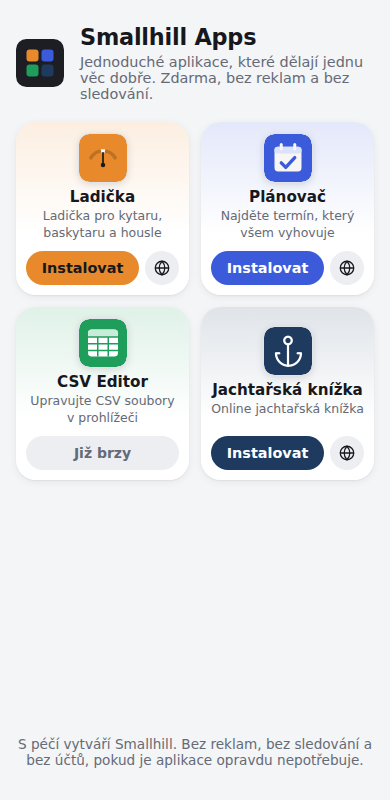
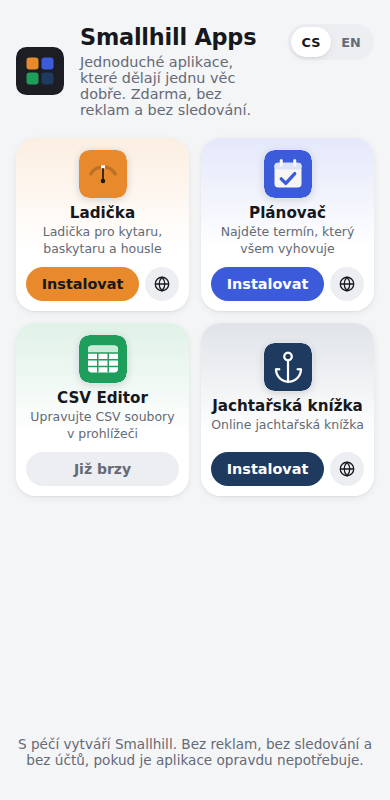
🌐 feat(portal): pick language from system settings and add CS/EN switch
Claude-Session: https://claude.ai/code/session_018H1CHLad89qXWLEkoPwUt1

Changed region(s): [[0.0308, 0.0312, 0.9231, 0.5938], [0.5231, 0.1562, 0.9538, 0.625]]

diff --git a/apps/portal/src/app/i18n.ts b/apps/portal/src/app/i18n.ts
@@ -1,3 +1,5 @@
+import { computed, signal } from "@angular/core";
+
 export type Lang = "en" | "cs";
 export type Text = Record<Lang, string>;
 
@@ -17,6 +19,7 @@ const en = {
 	features: ["Free", "No ads", "No tracking"],
 	installHelp:
 		"Your browser can't install apps from this page. Open the app and install it from the browser menu: Install app in Chrome or Edge, Share → Add to Home Screen in Safari.",
+	language: "Language",
 	footer: "Made with care by Smallhill. No ads, no tracking, no accounts unless an app truly needs one.",
 };
 
@@ -36,13 +39,42 @@ const cs: typeof en = {
 	features: ["Zdarma", "Bez reklam", "Bez sledování"],
 	installHelp:
 		"Váš prohlížeč neumí instalovat aplikace z této stránky. Otevřete aplikaci a nainstalujte ji z nabídky prohlížeče: Instalovat aplikaci v Chrome nebo Edge, Sdílet → Přidat na plochu v Safari.",
+	language: "Jazyk",
 	footer: "S péčí vytváří Smallhill. Bez reklam, bez sledování a bez účtů, pokud je aplikace opravdu nepotřebuje.",
 };
 
-export const LANG: Lang =
-	typeof navigator !== "undefined" && navigator.language?.toLowerCase().startsWith("cs") ? "cs" : "en";
-export const T = LANG === "cs" ? cs : en;
+const STORAGE_KEY = "portal.lang";
+const LANGS: Lang[] = ["en", "cs"];
+const TEXTS: Record<Lang, typeof en> = { en, cs };
+
+export function detectLang(languages: readonly string[]): Lang {
+	for (const language of languages) {
+		const code = language.toLowerCase().split("-")[0];
+		if (code === "cs" || code === "sk") return "cs";
+		if (code === "en") return "en";
+	}
+	return "en";
+}
+
+function initialLang(): Lang {
+	try {
+		const stored = localStorage.getItem(STORAGE_KEY);
+		if (LANGS.includes(stored as Lang)) return stored as Lang;
+	} catch {}
+	if (typeof navigator === "undefined") return "en";
+	return detectLang(navigator.languages?.length ? navigator.languages : [navigator.language ?? ""]);
+}
+
+export const lang = signal<Lang>(initialLang());
+export const T = computed(() => TEXTS[lang()]);
+
+export function setLang(value: Lang): void {
+	lang.set(value);
+	try {
+		localStorage.setItem(STORAGE_KEY, value);
+	} catch {}
+}
 
 export function tr(text: Text): string {
-	return text[LANG];
+	return text[lang()];
 }

diff --git a/apps/portal/src/app/app-detail/app-detail.html b/apps/portal/src/app/app-detail/app-detail.html
@@ -5,23 +5,23 @@
 		<p class="tagline">{{ tr(app().tagline) }}</p>
 		<app-actions [app]="app()" [large]="true" />
 	</div>
-	<button type="button" class="close" (click)="closed.emit()" [attr.aria-label]="t.close" [title]="t.close">
+	<button type="button" class="close" (click)="closed.emit()" [attr.aria-label]="t().close" [title]="t().close">
 		<svg viewBox="0 0 24 24" aria-hidden="true"><path d="M6 6l12 12M18 6L6 18" /></svg>
 	</button>
 </header>
 
 @if (showHelp()) {
-	<p class="help" role="status">{{ t.installHelp }}</p>
+	<p class="help" role="status">{{ t().installHelp }}</p>
 }
 
 <ul class="features">
-	@for (feature of t.features; track feature) {
+	@for (feature of t().features; track feature) {
 		<li>{{ feature }}</li>
 	}
 </ul>
 
 <section>
-	<h3>{{ t.screenshots }}</h3>
+	<h3>{{ t().screenshots }}</h3>
 	@if (app().screenshots.length) {
 		<div class="screenshots">
 			@for (shot of app().screenshots; track shot; let i = $index) {
@@ -29,11 +29,11 @@
 			}
 		</div>
 	} @else {
-		<p class="muted">{{ t.noScreenshots }}</p>
+		<p class="muted">{{ t().noScreenshots }}</p>
 	}
 </section>
 
 <section>
-	<h3>{{ t.about }}</h3>
+	<h3>{{ t().about }}</h3>
 	<p class="description">{{ tr(app().description) }}</p>
 </section>

diff --git a/apps/portal/src/app/app.ts b/apps/portal/src/app/app.ts
@@ -2,7 +2,7 @@ import { ChangeDetectionStrategy, Component, computed, effect, ElementRef, signa
 import { AppDetail } from "./app-detail/app-detail";
 import { AppTile } from "./app-tile/app-tile";
 import { APPS } from "./apps";
-import { T } from "./i18n";
+import { Lang, lang, setLang, T } from "./i18n";
 
 @Component({
 	selector: "app-root",
@@ -14,6 +14,9 @@ import { T } from "./i18n";
 })
 export class App {
 	protected readonly t = T;
+	protected readonly lang = lang;
+	protected readonly langs: Lang[] = ["cs", "en"];
+	protected readonly setLang = setLang;
 	protected readonly apps = APPS.filter((app) => app.listed);
 
 	private readonly dialog = viewChild.required<ElementRef<HTMLDialogElement>>("dialog");
@@ -22,6 +25,9 @@ export class App {
 
 	constructor() {
 		this.syncFromHash();
+		effect(() => {
+			document.documentElement.lang = lang();
+		});
 		effect(() => {
 			const dialog = this.dialog().nativeElement;
 			if (this.selected() && !dialog.open) dialog.showModal();

diff --git a/apps/portal/src/app/app-actions/app-actions.html b/apps/portal/src/app/app-actions/app-actions.html
@@ -7,22 +7,22 @@
 	>
 		@switch (state()) {
 			@case ("installing") {
-				{{ t.installing }}
+				{{ t().installing }}
 			}
 			@case ("installed") {
-				{{ t.installed }}
+				{{ t().installed }}
 			}
 			@default {
-				{{ t.install }}
+				{{ t().install }}
 			}
 		}
 	</button>
-	<a class="web" [href]="app().url" target="_blank" rel="noopener" [attr.aria-label]="t.open" [title]="t.open">
+	<a class="web" [href]="app().url" target="_blank" rel="noopener" [attr.aria-label]="t().open" [title]="t().open">
 		<svg viewBox="0 0 24 24" aria-hidden="true">
 			<circle cx="12" cy="12" r="9" />
 			<path d="M3 12h18M12 3c2.5 2.7 3.8 5.7 3.8 9s-1.3 6.3-3.8 9c-2.5-2.7-3.8-5.7-3.8-9S9.5 5.7 12 3z" />
 		</svg>
 	</a>
 } @else {
-	<span class="soon">{{ t.soon }}</span>
+	<span class="soon">{{ t().soon }}</span>
 }

diff --git a/apps/portal/src/app/app.html b/apps/portal/src/app/app.html
@@ -1,8 +1,20 @@
 <header class="hero">
 	<img src="favicon.svg" alt="" width="48" height="48" />
 	<div>
-		<h1>{{ t.title }}</h1>
-		<p>{{ t.subtitle }}</p>
+		<h1>{{ t().title }}</h1>
+		<p>{{ t().subtitle }}</p>
+	</div>
+	<div class="lang" role="group" [attr.aria-label]="t().language">
+		@for (option of langs; track option) {
+			<button
+				type="button"
+				[attr.aria-pressed]="lang() === option"
+				[attr.lang]="option"
+				(click)="setLang(option)"
+			>
+				{{ option.toUpperCase() }}
+			</button>
+		}
 	</div>
 </header>
 
@@ -14,7 +26,7 @@
 	</ul>
 </main>
 
-<footer>{{ t.footer }}</footer>
+<footer>{{ t().footer }}</footer>
 
 <dialog #dialog (close)="selected() && close()" (click)="onBackdropClick($event)">
 	@if (selected(); as app) {

diff --git a/apps/portal/src/app/app.scss b/apps/portal/src/app/app.scss
@@ -19,6 +19,10 @@
 		height: 48px;
 	}
 
+	> div:first-of-type {
+		flex: 1;
+	}
+
 	h1 {
 		margin: 0;
 		font-size: 1.75rem;
@@ -28,6 +32,33 @@
 	p {
 		margin: 4px 0 0;
 		color: var(--muted);
+	}
+}
+
+.lang {
+	display: flex;
+	flex: none;
+	align-self: flex-start;
+	padding: 3px;
+	border-radius: 999px;
+	background: var(--surface-2);
+
+	button {
+		min-width: 40px;
+		height: 30px;
+		padding: 0 10px;
+		border: 0;
+		border-radius: 999px;
+		background: none;
+		color: var(--muted);
+		font-size: 0.8rem;
+		font-weight: 700;
+
+		&[aria-pressed="true"] {
+			background: var(--surface);
+			color: var(--text);
+			box-shadow: var(--shadow);
+		}
 	}
 }
 

diff --git a/apps/portal/src/app/i18n.spec.ts b/apps/portal/src/app/i18n.spec.ts
@@ -1,0 +1,21 @@
+import { detectLang } from "./i18n";
+
+describe("detectLang", () => {
+	it("picks Czech from the system languages", () => {
+		expect(detectLang(["cs-CZ", "en-US"])).toBe("cs");
+		expect(detectLang(["de-DE", "cs"])).toBe("cs");
+	});
+
+	it("treats Slovak as Czech", () => {
+		expect(detectLang(["sk-SK"])).toBe("cs");
+	});
+
+	it("uses the first supported language", () => {
+		expect(detectLang(["de-DE", "en-GB", "cs-CZ"])).toBe("en");
+	});
+
+	it("falls back to English", () => {
+		expect(detectLang(["de-DE", "fr"])).toBe("en");
+		expect(detectLang([])).toBe("en");
+	});
+});

diff --git a/apps/portal/src/app/app-tile/app-tile.html b/apps/portal/src/app/app-tile/app-tile.html
@@ -1,4 +1,4 @@
-<button type="button" class="open" (click)="details.emit()" [attr.aria-label]="t.details + ' ' + tr(app().name)">
+<button type="button" class="open" (click)="details.emit()" [attr.aria-label]="t().details + ' ' + tr(app().name)">
 	<img class="logo" [src]="app().icon" alt="" width="72" height="72" />
 	<span class="name">{{ tr(app().name) }}</span>
 	<span class="tagline">{{ tr(app().tagline) }}</span>

diff --git a/apps/portal/src/main.ts b/apps/portal/src/main.ts
@@ -1,8 +1,5 @@
 import { bootstrapApplication } from "@angular/platform-browser";
 import { appConfig } from "./app/app.config";
 import { App } from "./app/app";
-import { LANG } from "./app/i18n";
-
-document.documentElement.lang = LANG;
 
 bootstrapApplication(App, appConfig).catch((err) => console.error(err));

diff --git a/apps/portal/CLAUDE.md b/apps/portal/CLAUDE.md
@@ -2,4 +2,4 @@
 
 - Home page served at the root of https://apps.smallhill.cz (base path passed at build time), no service worker so it never intercepts `/<app>/` navigations.
 - App list in `src/app/apps.ts` (`color` = app signature colour from its manifest `theme_color`, tints tile and Install button; `listed: false` hides; missing `url` = coming soon); assets in `public/apps/<id>/`.
-- Install via `navigator.install(url, url)` in `src/app/install.service.ts` (manifest id = app start URL); texts EN/CS in `src/app/i18n.ts`.
+- Install via `navigator.install(url, url)` in `src/app/install.service.ts` (manifest id = app start URL); texts EN/CS in `src/app/i18n.ts` (`lang` signal: saved choice, else first cs/sk/en in `navigator.languages`, else en).

diff --git a/apps/portal/README.md b/apps/portal/README.md
@@ -4,6 +4,8 @@ App store style home page of https://apps.smallhill.cz listing all Smallhill app
 
 Browsers without `navigator.install` get a short hint on how to install the app from the browser menu.
 
+The page is in Czech or English, picked from the system language list (`navigator.languages`, Slovak counts as Czech); the CS/EN switch in the header overrides it and is remembered.
+
 ## Adding an app
 
 1. Put its logo (`icon.svg`, in the app's signature colour) and mobile screenshots (390×780, `.webp`) into `public/apps/<id>/`.
